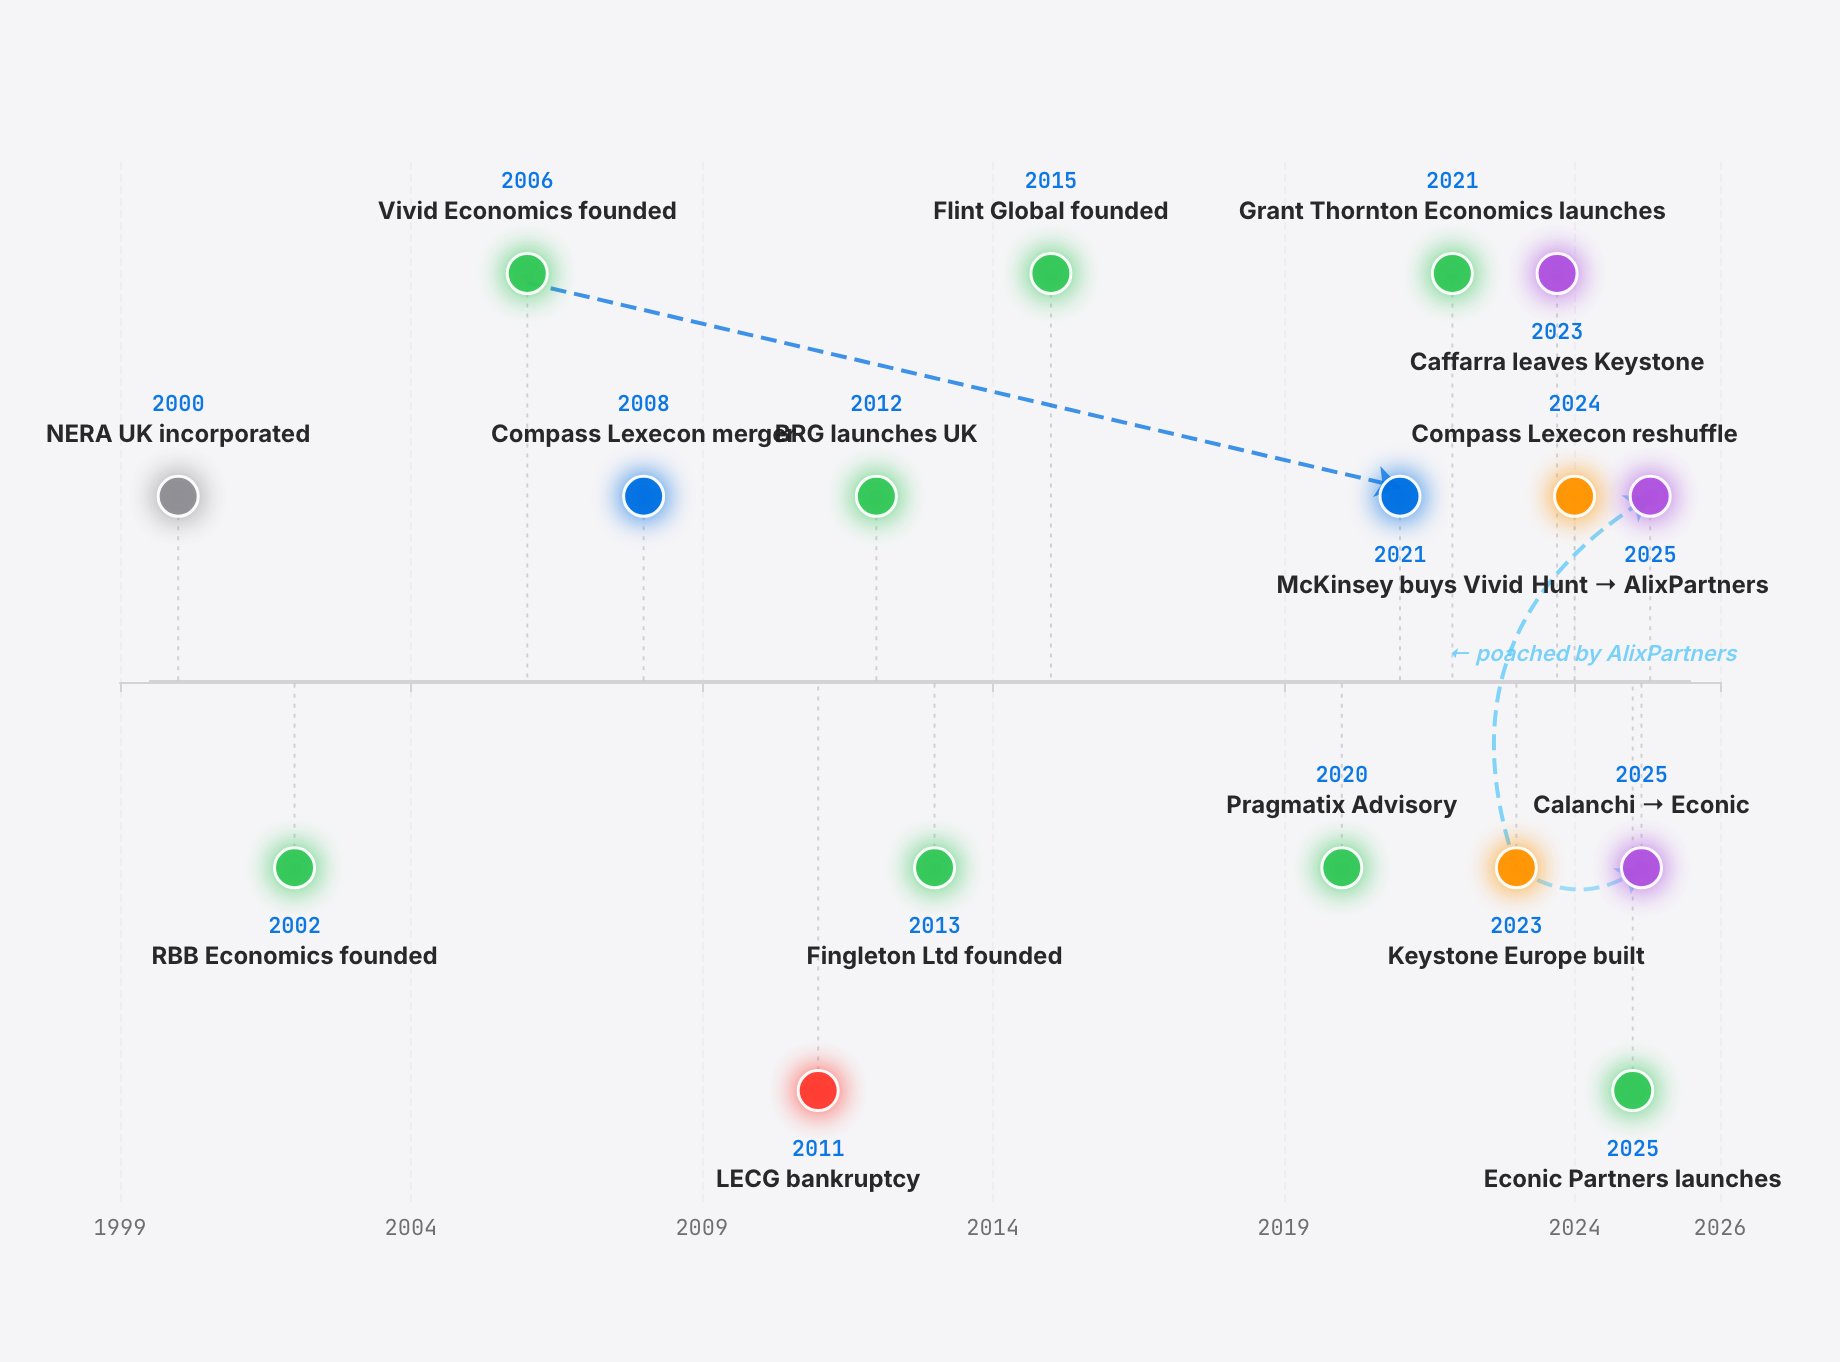
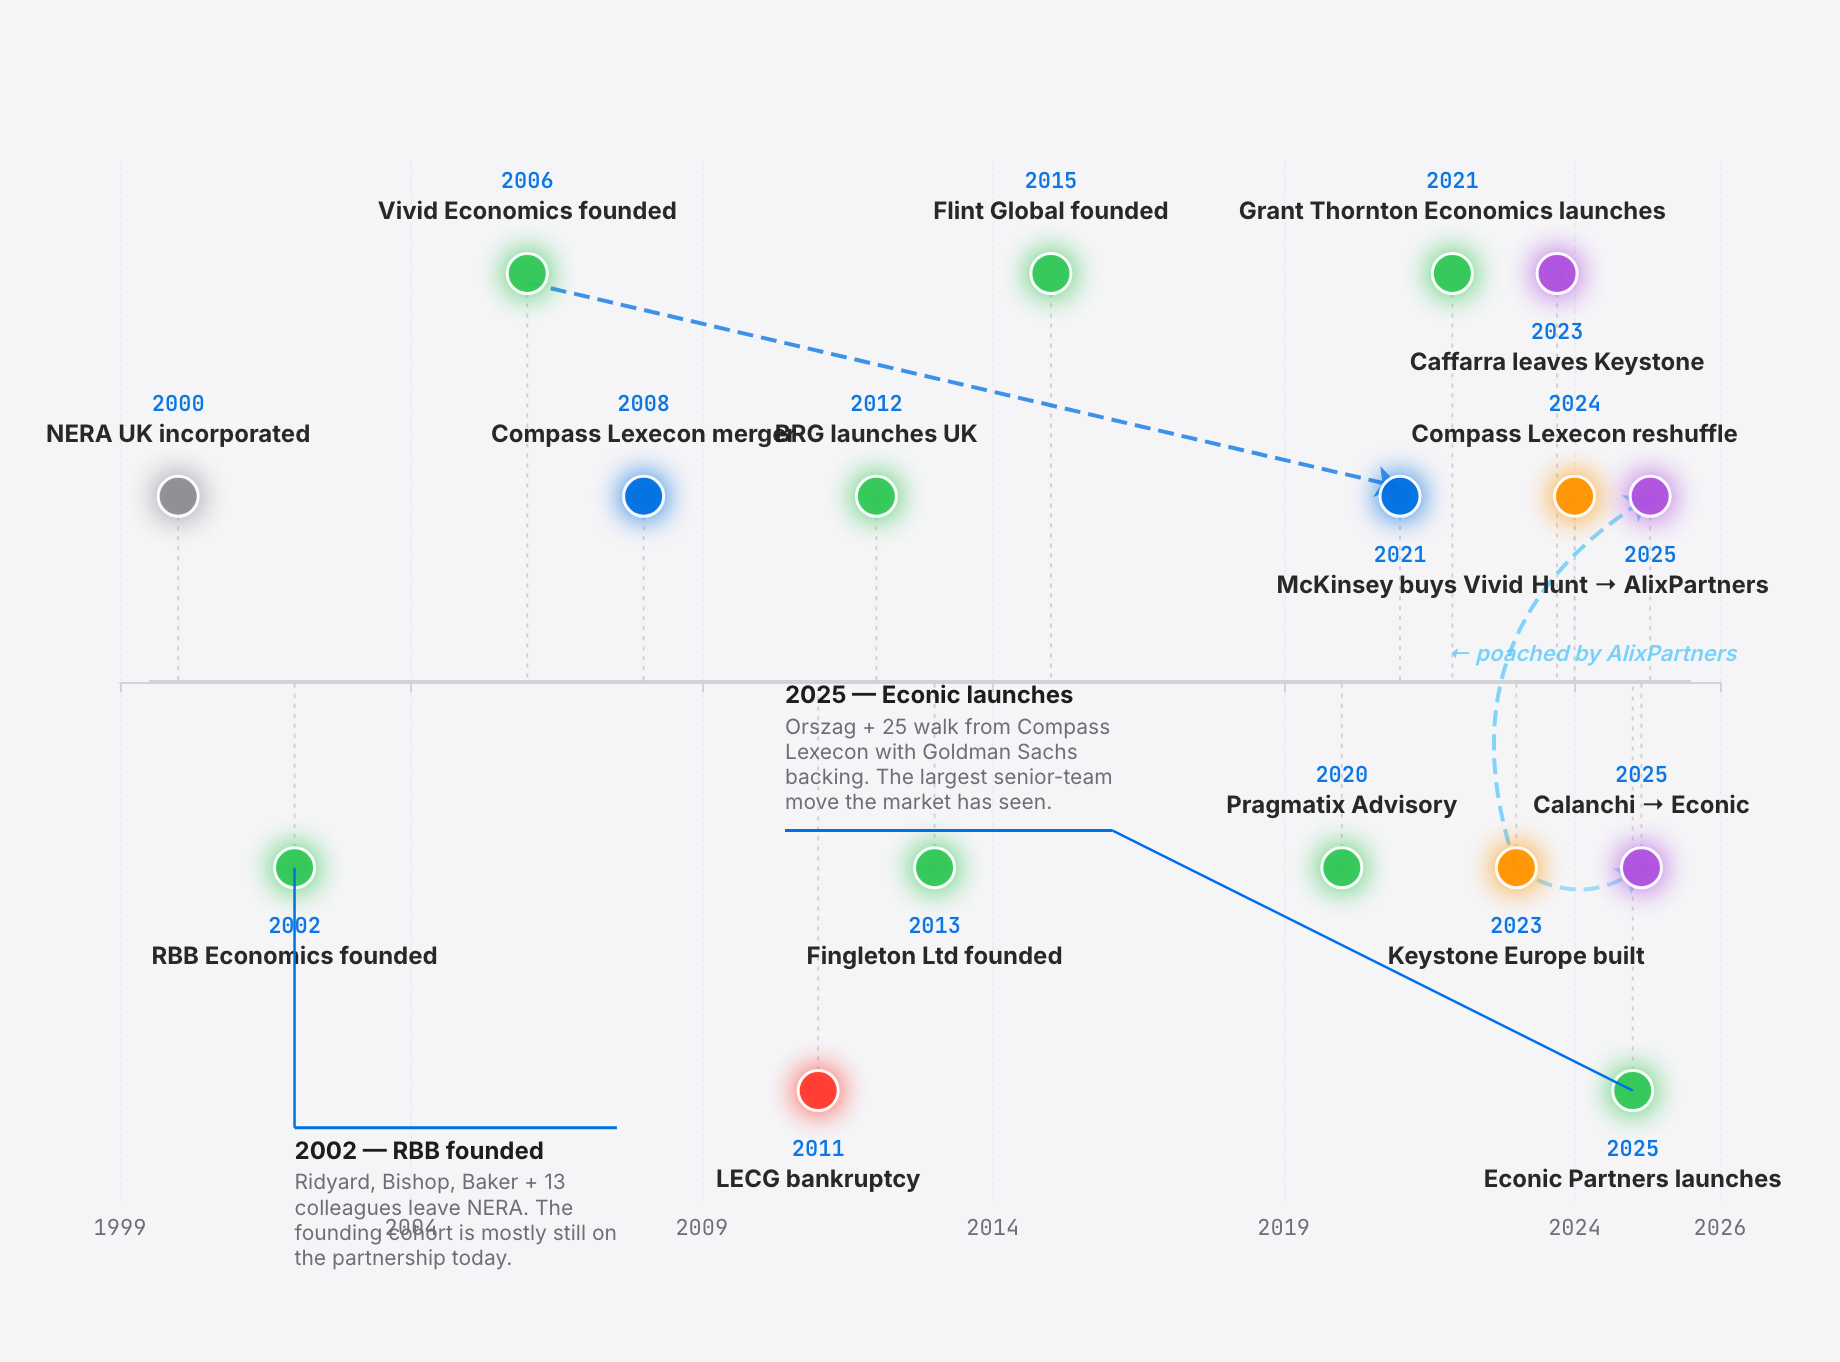
Part 0.1: add d3-annotation callouts to Spinout Timeline
The Spinout Timeline (chart-7) had per-dot year + event-name labels
but no narrative pull-out callouts of the kind chart-3, chart-4 and
chart-7b carry. Added two via the existing annotateChart helper:

  - 2002 — RBB founded: founding cohort still on the partnership
    today (bottom-left)
  - 2025 — Econic launches: largest senior-team move the market has
    seen (centre, pointing to the 2025 dot)

Wired chart7.on('finished') into tryDrawAnnotations and re-exported
the mobile PNG.

Changed region(s): [[0.4337, 0.4934, 0.5886, 0.6167], [0.1549, 0.8018, 0.3408, 0.9251]]

diff --git a/blog/consultancy-series/part0.1-visual-story.html b/blog/consultancy-series/part0.1-visual-story.html
@@ -2333,6 +2333,10 @@ function setupAnnotations() {
   annotateChart(chart7b, 'chart-7b', [
     { xValue: 9, yValue: 39, title: '2024: 39 new seats', label: 'Partnership gold rush. Baringa alone added 11 new LLP members.', dx: -120, dy: -40, type: 'elbow', finder: {seriesIndex: 0} }
   ]);
+  annotateChart(chart7, 'chart-7', [
+    { xValue: 2002, yValue: -1.0, title: '2002 — RBB founded',   label: 'Ridyard, Bishop, Baker + 13 colleagues leave NERA. The founding cohort is mostly still on the partnership today.', dx: 0,    dy: 130, type: 'elbow', finder: {seriesIndex: 2}, wrap: 170 },
+    { xValue: 2025, yValue: -2.2, title: '2025 — Econic launches', label: 'Orszag + 25 walk from Compass Lexecon with Goldman Sachs backing. The largest senior-team move the market has seen.', dx: -260, dy: -130, type: 'elbow', finder: {seriesIndex: 2}, wrap: 190 }
+  ]);
 }
 
 let annotationsDrawn = false;
@@ -2343,6 +2347,7 @@ function tryDrawAnnotations() {
 chart3.on('finished', tryDrawAnnotations);
 chart4.on('finished', tryDrawAnnotations);
 chart5.on('finished', tryDrawAnnotations);
+chart7.on('finished', tryDrawAnnotations);
 chart7b.on('finished', tryDrawAnnotations);
 setTimeout(tryDrawAnnotations, 600);
 
